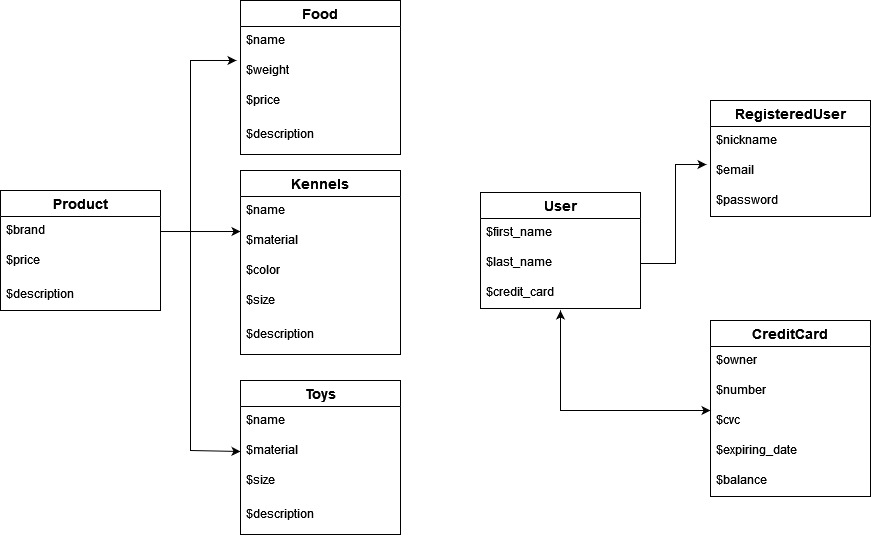
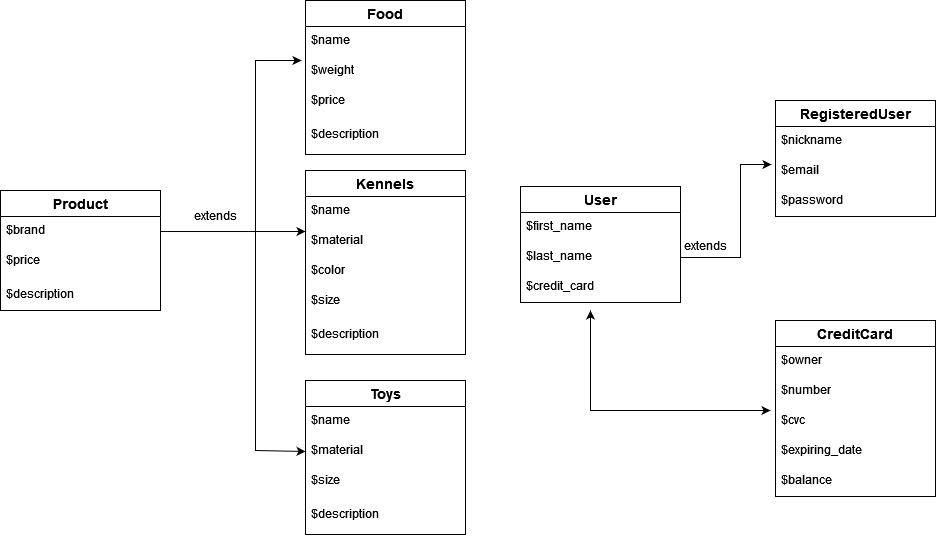
Added Product.php & Fixed diagram

diff --git a/classes/Product.php b/classes/Product.php
@@ -1,0 +1,44 @@
+<?php
+class Product
+{
+    protected $brand;
+    protected $price;
+    protected $description;
+
+    public function __construct($_brand, $_price, $_description)
+    {
+        $this->brand = $_brand;
+        $this->price = $_price;
+        $this->description = $_description;
+    }
+
+    public function setBrand($_brand)
+    {
+        $this->brand = $_brand;
+    }
+
+    public function getBrand()
+    {
+        return $this->brand;
+    }
+
+    public function setPrice($_price)
+    {
+        $this->price = $_price;
+    }
+
+    public function getPrice()
+    {
+        return $this->price;
+    }
+
+    public function setDescription($_description)
+    {
+        $this->description = $_description;
+    }
+
+    public function getDescription()
+    {
+        return $this->description;
+    }
+}
